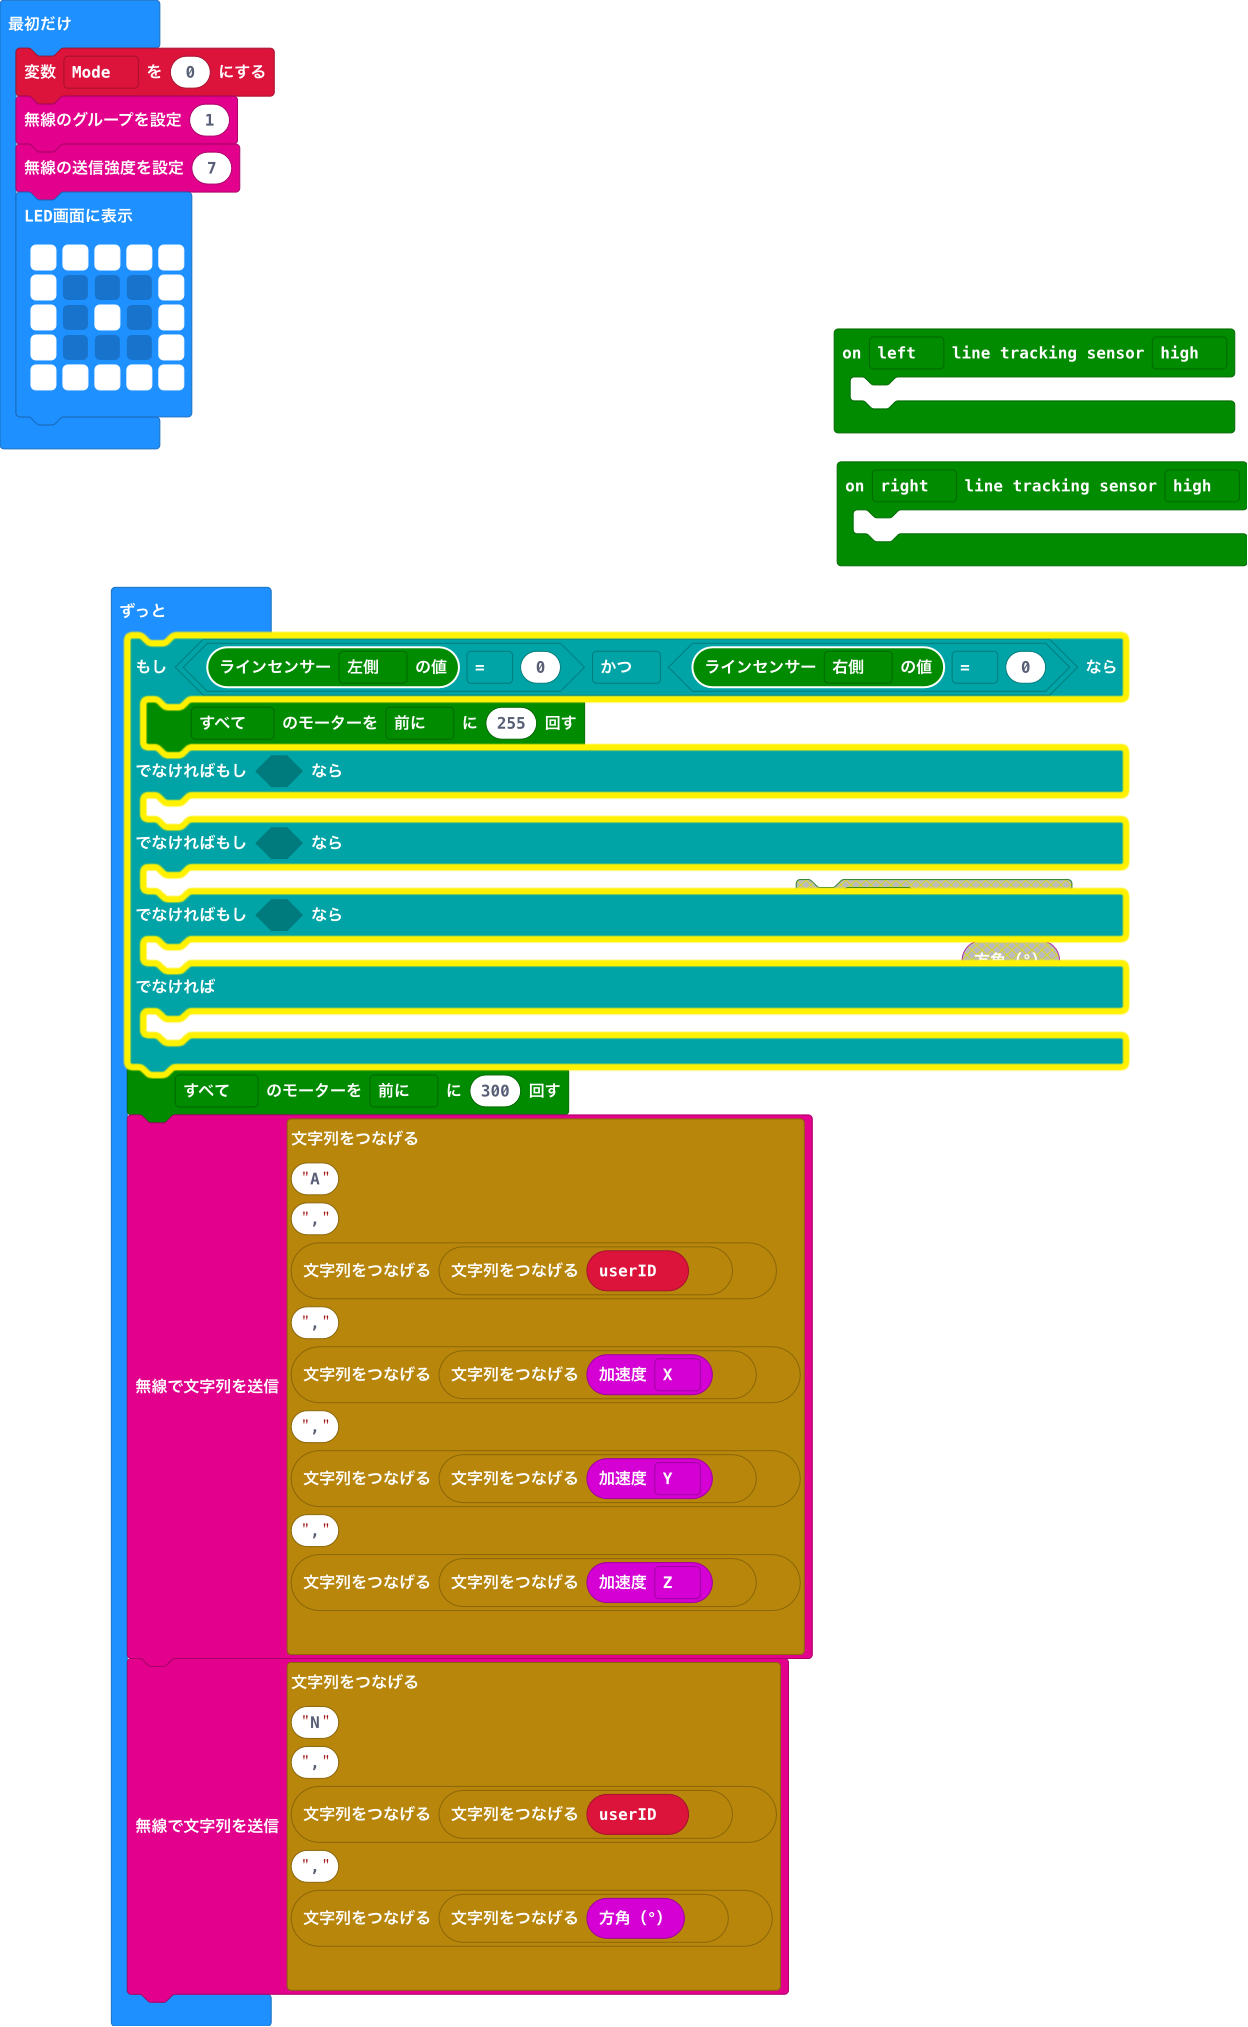
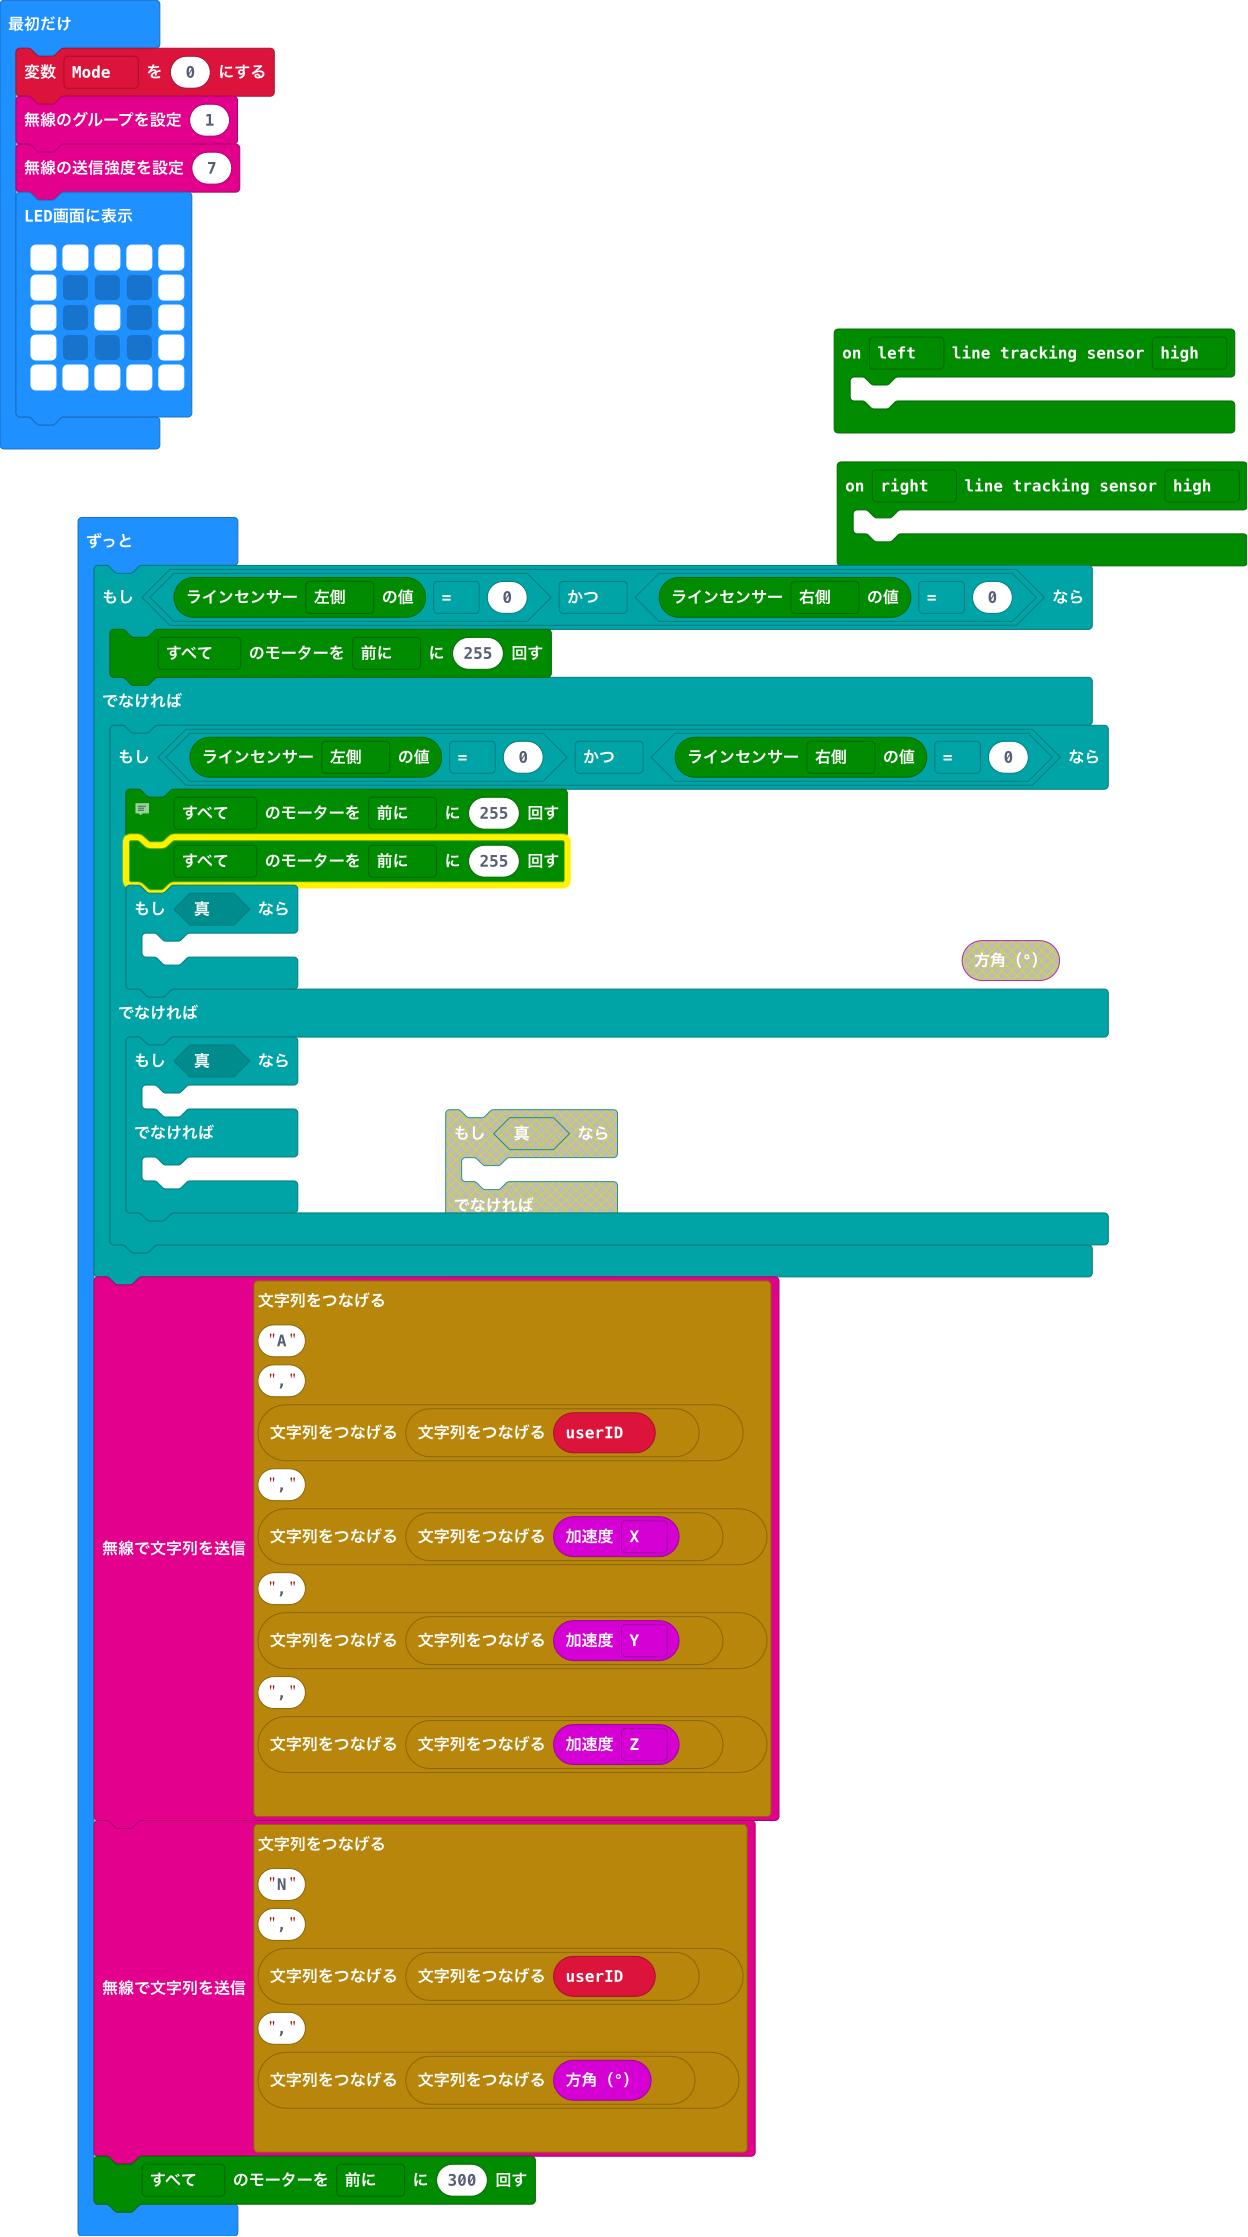
更新 main.blocks, main.ts

diff --git a/main.ts b/main.ts
@@ -18,16 +18,23 @@ basic.forever(function () {
     let userID = 0
     if (maqueen.readPatrol(maqueen.Patrol.PatrolLeft) == 0 && maqueen.readPatrol(maqueen.Patrol.PatrolRight) == 0) {
         maqueen.motorRun(maqueen.Motors.All, maqueen.Dir.CW, 255)
-    } else if (false) {
-    	
-    } else if (false) {
-    	
-    } else if (false) {
-    	
     } else {
-    	
+        if (maqueen.readPatrol(maqueen.Patrol.PatrolLeft) == 0 && maqueen.readPatrol(maqueen.Patrol.PatrolRight) == 0) {
+            // 
+            maqueen.motorRun(maqueen.Motors.All, maqueen.Dir.CW, 255)
+            maqueen.motorRun(maqueen.Motors.All, maqueen.Dir.CW, 255)
+            if (true) {
+            	
+            }
+        } else {
+            if (true) {
+            	
+            } else {
+            	
+            }
+        }
     }
-    maqueen.motorRun(maqueen.Motors.All, maqueen.Dir.CW, 300)
     radio.sendString("A" + "," + ("" + userID) + "," + ("" + input.acceleration(Dimension.X)) + "," + ("" + input.acceleration(Dimension.Y)) + "," + ("" + input.acceleration(Dimension.Z)))
     radio.sendString("N" + "," + ("" + userID) + "," + ("" + input.compassHeading()))
+    maqueen.motorRun(maqueen.Motors.All, maqueen.Dir.CW, 300)
 })
